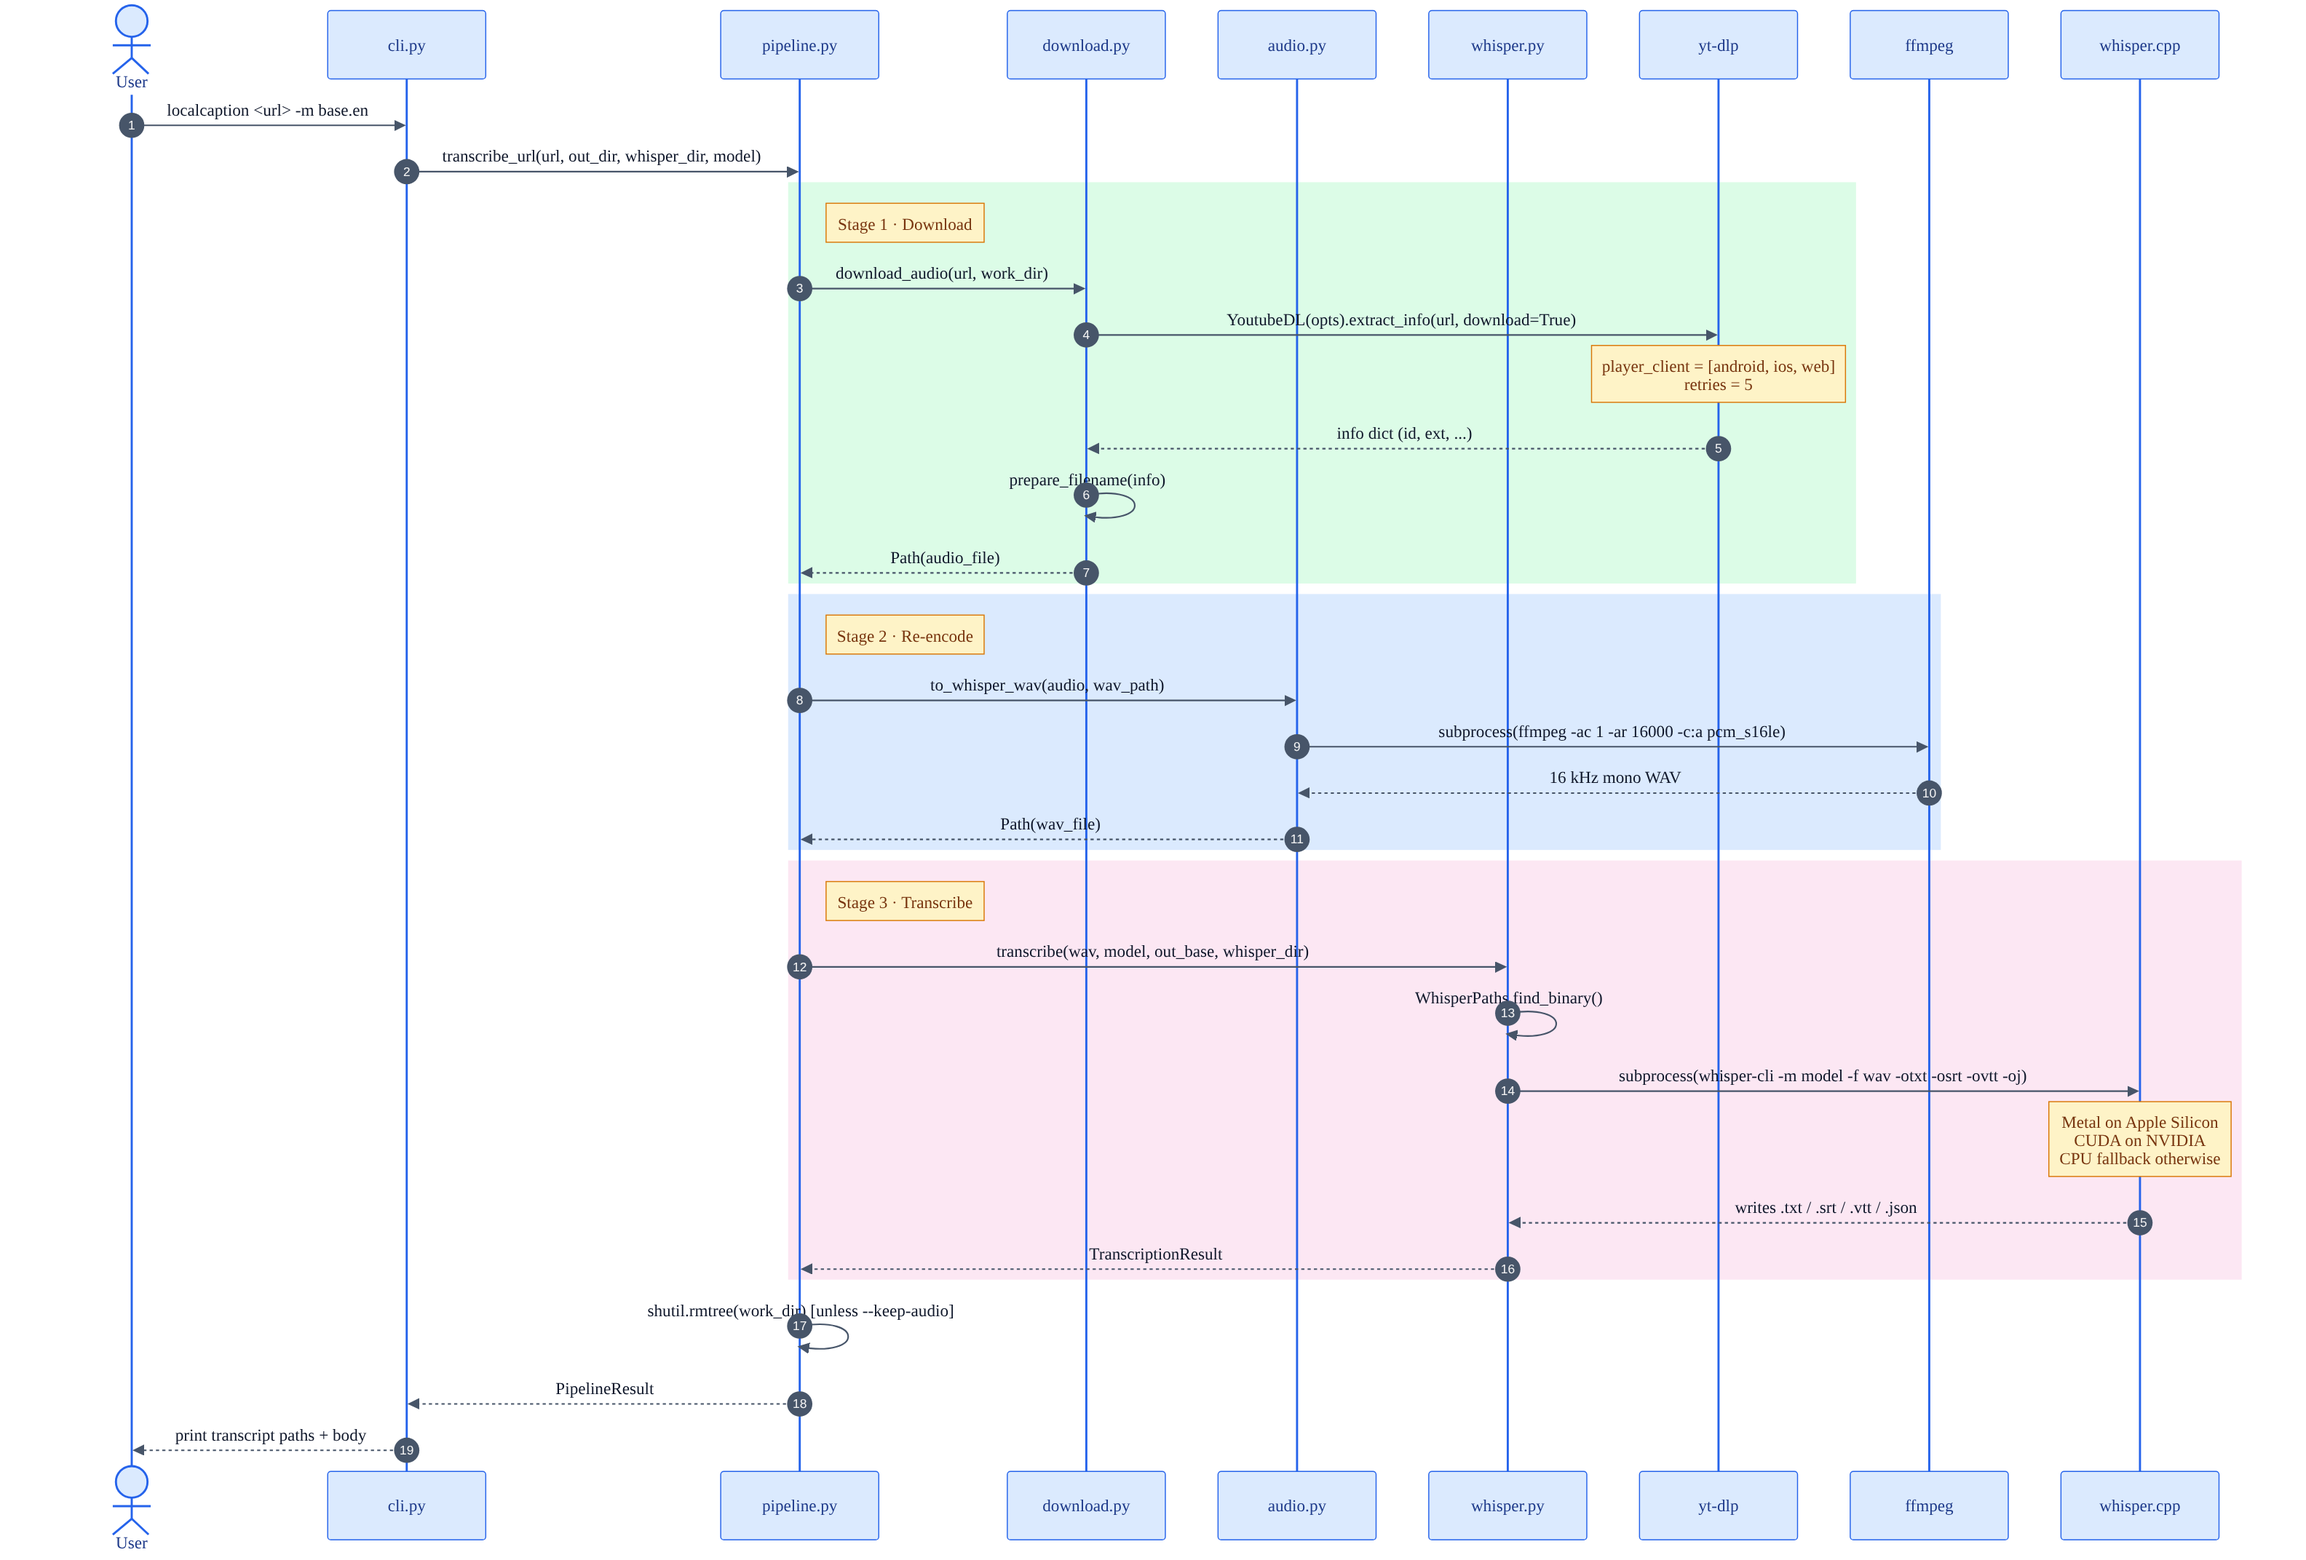
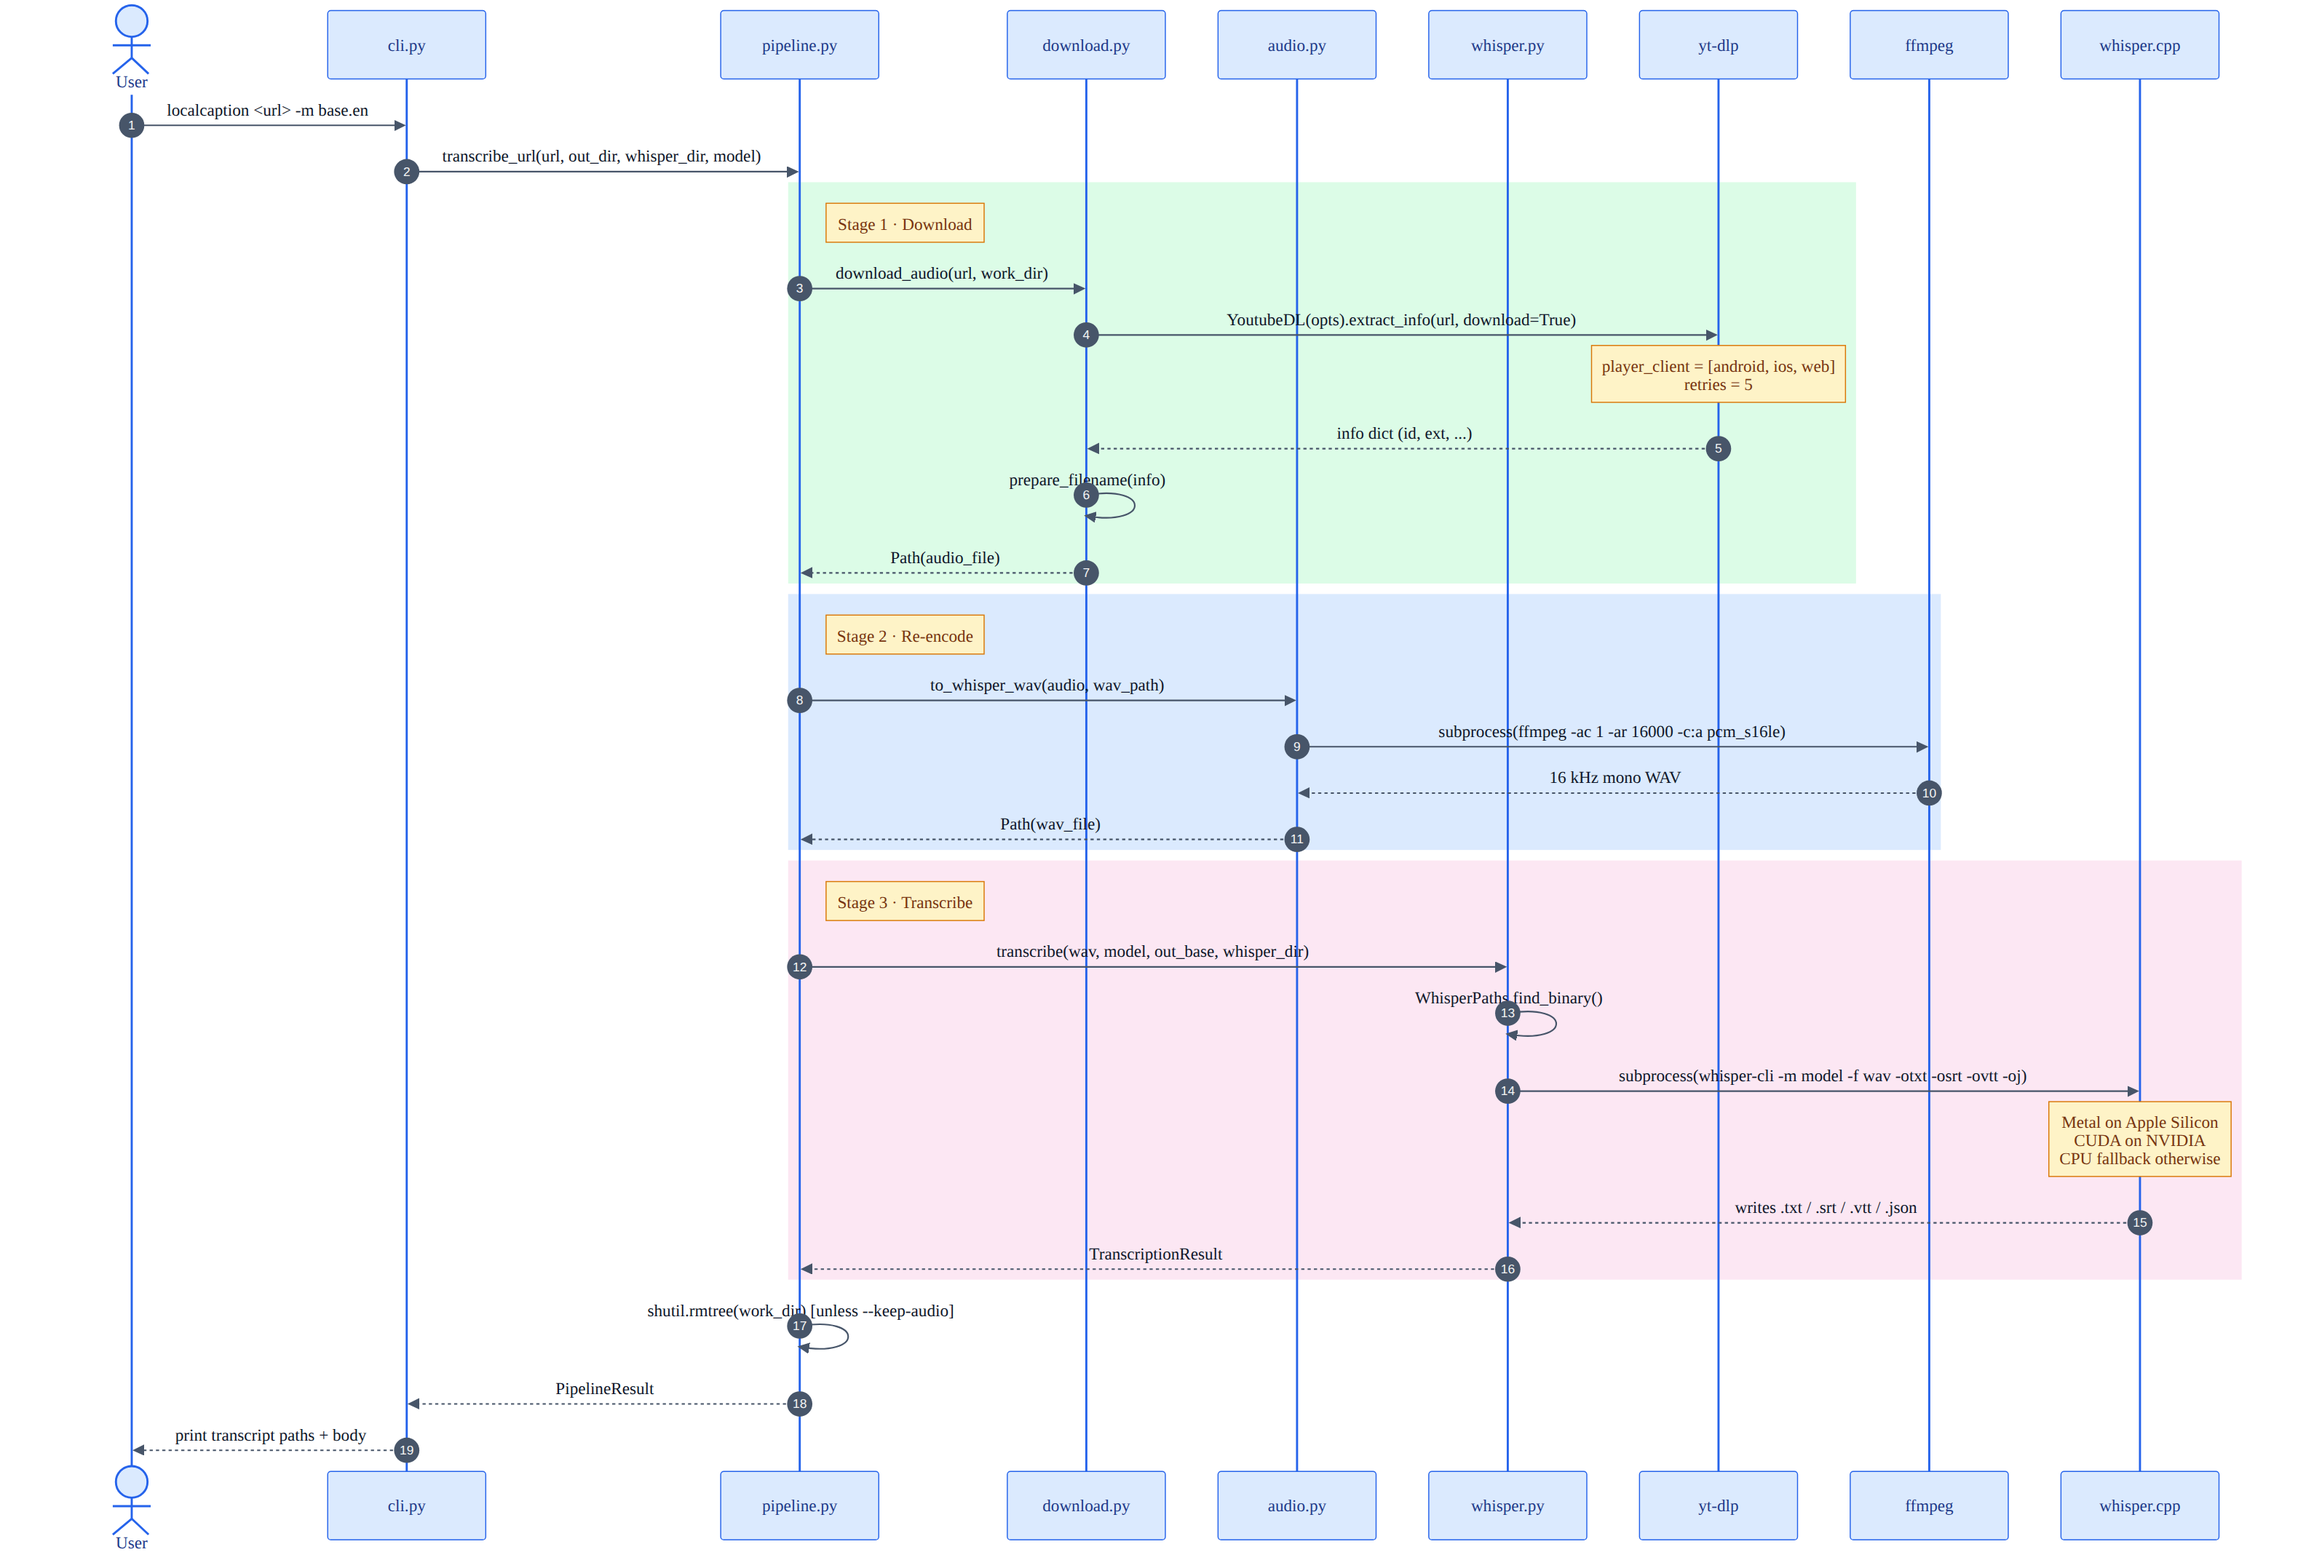
fix(diagrams): render with white background for GitHub readability (#12)
All three Mermaid diagrams (architecture, pipeline, sequence) were
previously rendered with a transparent background, making them unreadable
on GitHub's dark mode and blending into the page background.

Regenerate with -b white instead of -b transparent. Also update the
documented mmdc command in README.md to match.

Changed region(s): [[0.9062, 0.7188, 0.9688, 0.75], [0.7188, 0.2188, 0.75, 0.25]]

diff --git a/README.md b/README.md
@@ -284,7 +284,7 @@ the subprocess hops to yt-dlp, ffmpeg, and whisper.cpp. The intermediate
 > files alongside the rendered PNGs. Regenerate with:
 > ```bash
 > mmdc -i docs/diagrams/<name>.mmd -o docs/diagrams/<name>.png \
->   -t default -b transparent --width 1600 --scale 2
+>   -t default -b white --width 1600 --scale 2
 > ```
 
 ## Benchmarks
